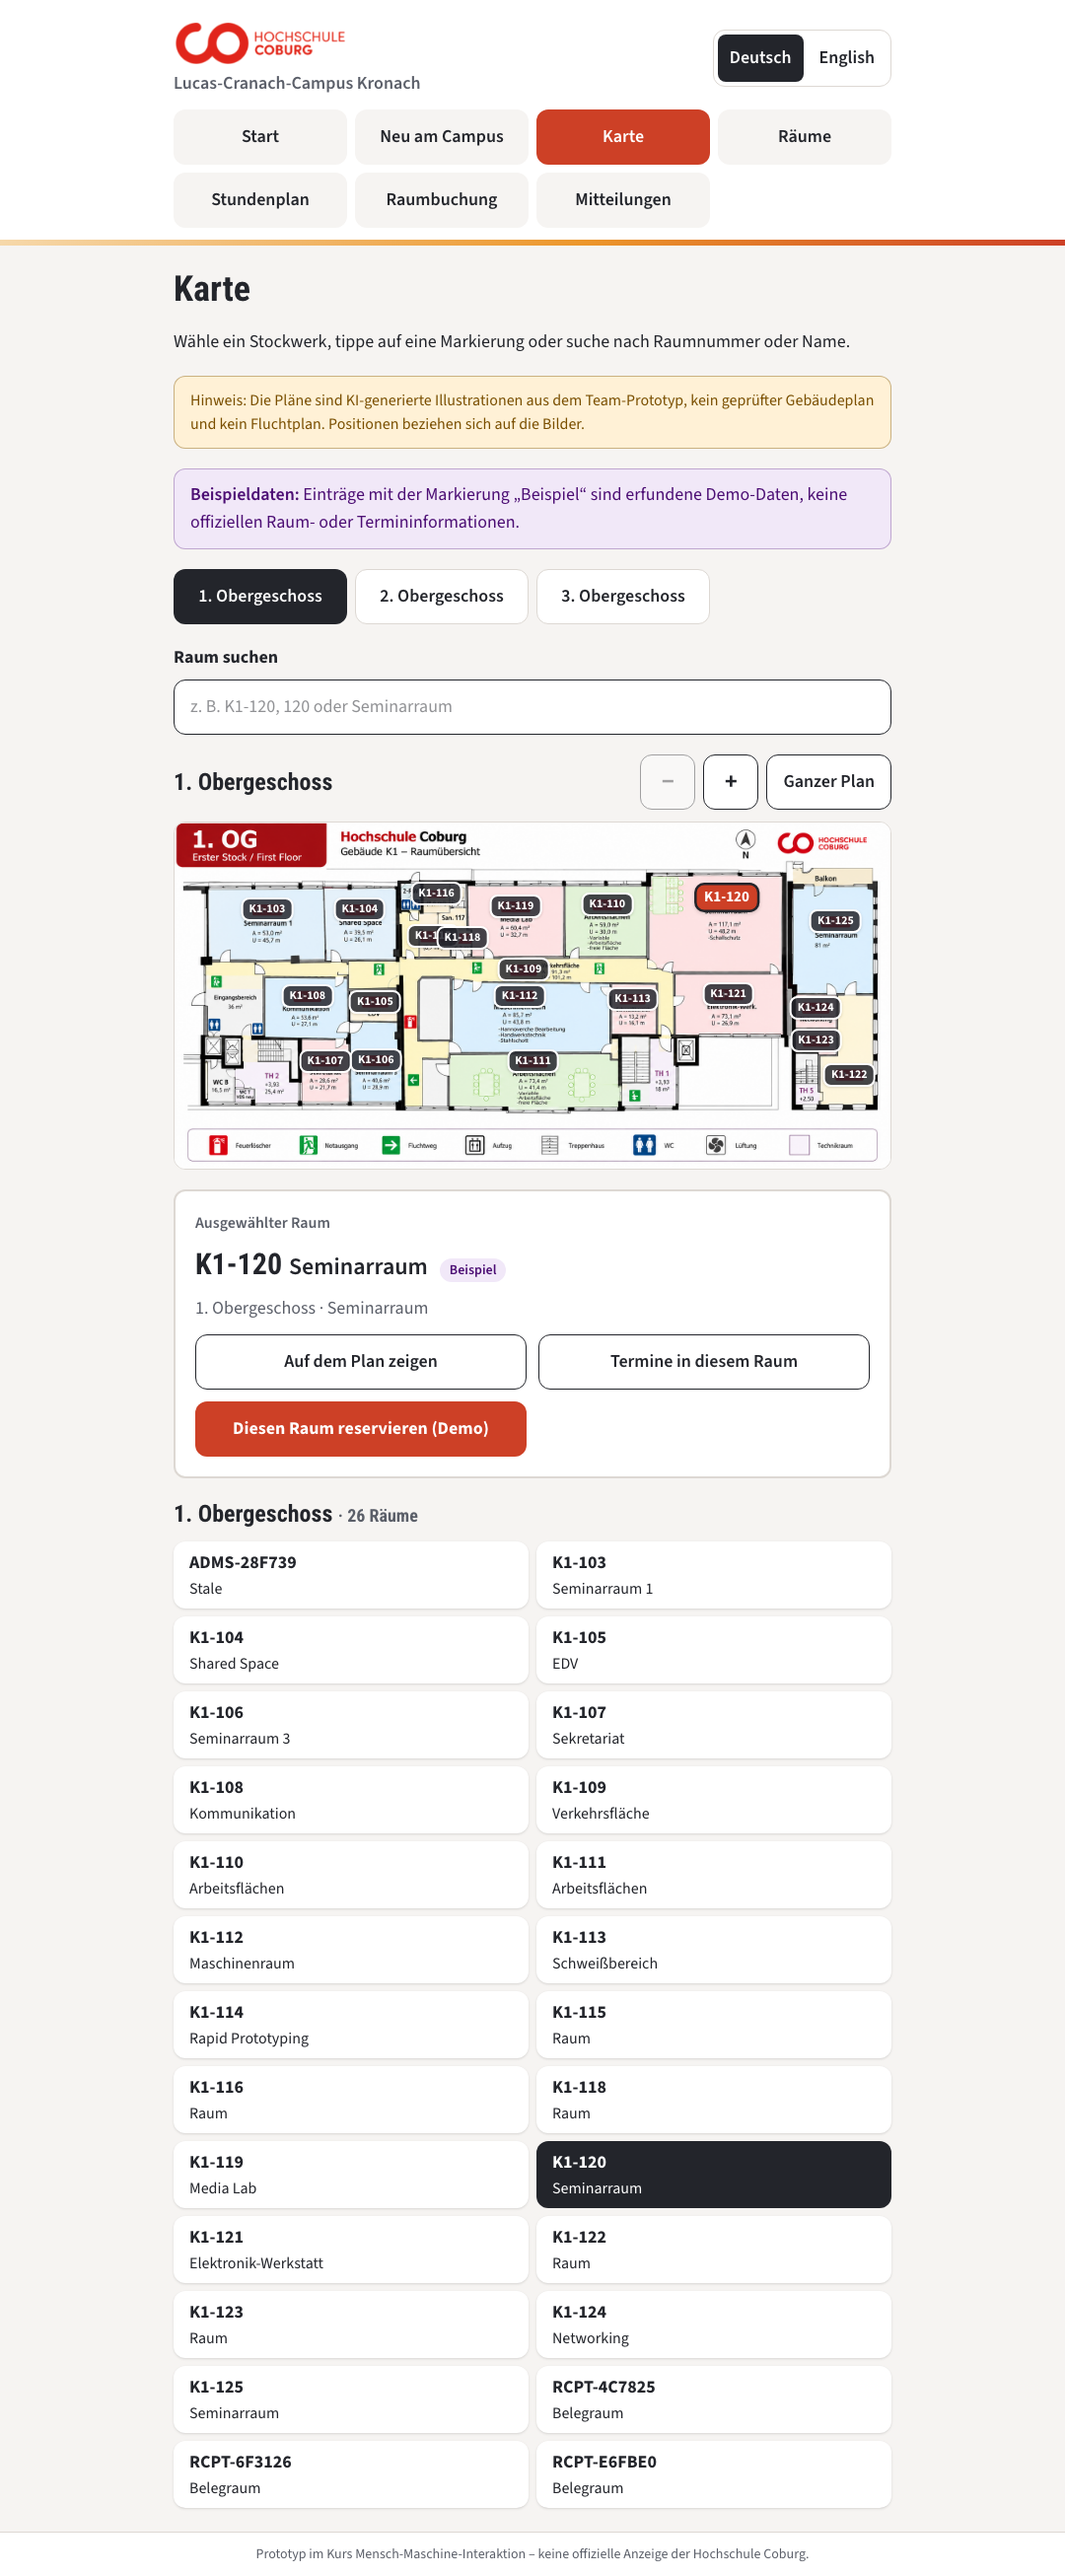
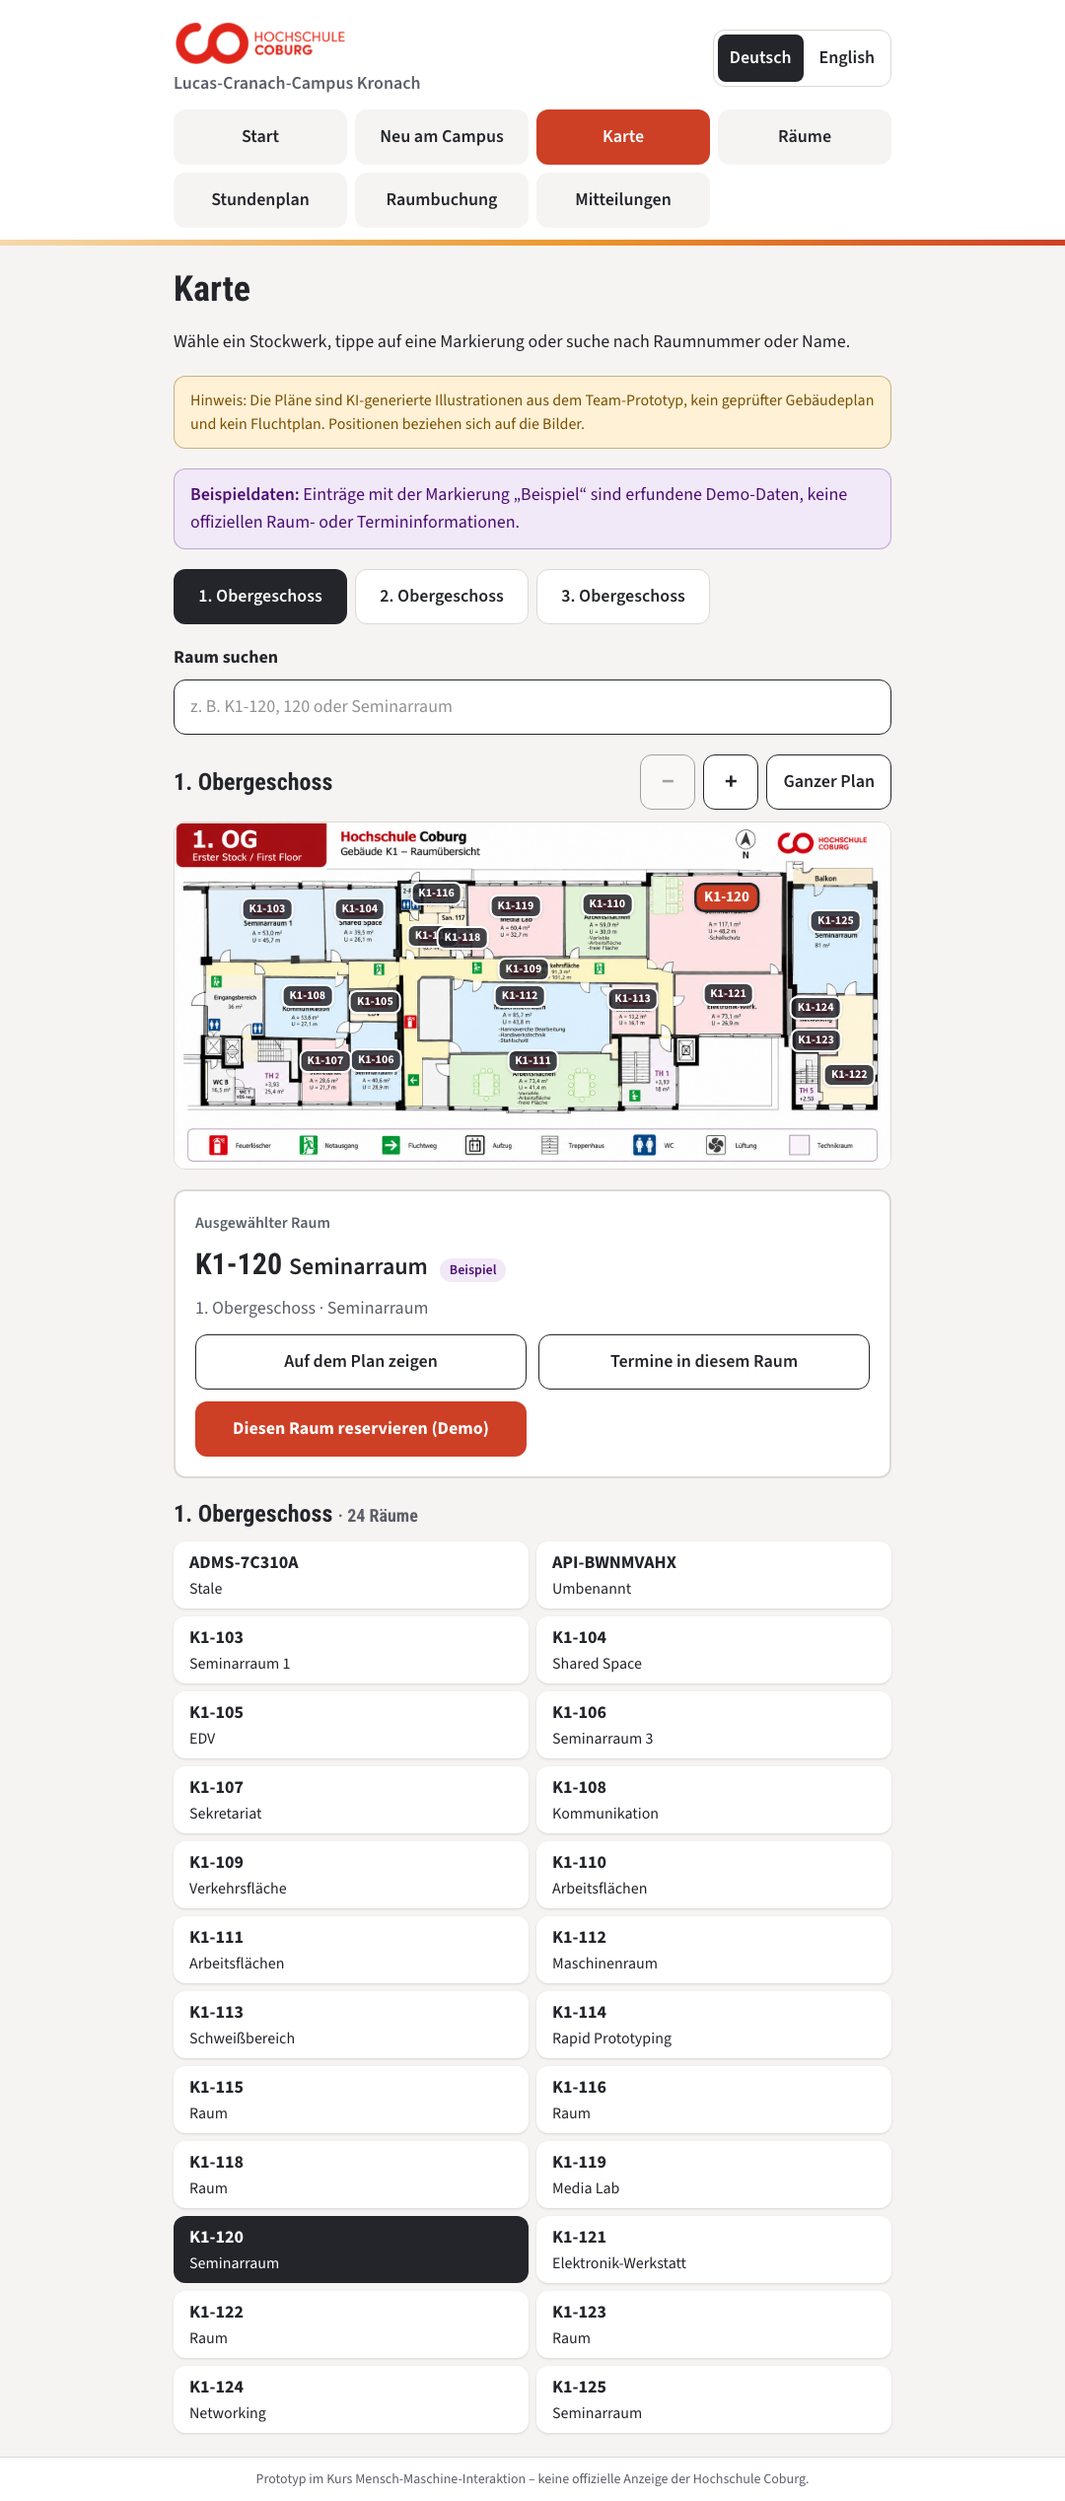
test: contract tests, booking restart persistence, clean lint; T17 acceptance evidence (T06, T16, T17)
By Ali:
- tests/unit/integration-contracts.test.ts: URL context, booking policy
  range, translated error codes, complete DE/EN copy (contract C3-C7).
- scripts/verify-restart.sh: two demo bookings on a relative Berlin date;
  after restart the confirmed/cancelled states, busy spans, rooms and the
  cancellation code still hold. Tokens are never printed.
- public/map-demo/app.js: removed two unused variables reported by the
  audit (lastFocusedPin, i) in Aryan's preserved static script; no
  behaviour change. No lint rule or config was changed.

T17 run (details in docs/evidence/integration-2026-10-31/T17/run-info.txt):
typecheck 0; lint 0 problems; unit 134/134; build 0; E2E 60/60;
concurrency 3/3; restart PASS 13 checks (first attempt failed on a
script ordering bug, fixed).

diff --git a/tests/unit/integration-contracts.test.ts b/tests/unit/integration-contracts.test.ts
@@ -1,0 +1,48 @@
+import { describe, expect, it } from "vitest";
+import { bookingErrorKey, BOOKING_COPY } from "../../src/components/public/booking-copy.ts";
+import { BOOKING_POLICY, bookingDateRange } from "../../src/lib/bookings/policy.ts";
+import { PUBLIC_TEXT, publicHref } from "../../src/lib/i18n/public.ts";
+import { FLOOR_IDS } from "../../src/lib/rooms/schema.ts";
+
+// T06: the meanings fixed in docs/contracts.md (C3–C5, C7) that several
+// modules rely on. Behaviour of the API itself is covered by
+// tests/e2e/booking-api.spec.ts; the occupancy rule by occupancy.test.ts.
+
+describe("C3 public URL context", () => {
+  it("keeps opaque room ids, dates and language; German adds no parameter", () => {
+    expect(publicHref("/map", "en", { raum: "lcc-demo-room-k1-120", datum: "2026-11-03" })).toBe("/map?raum=lcc-demo-room-k1-120&datum=2026-11-03&lang=en");
+    expect(publicHref("/booking", "de", { raum: "demo-room-101" })).toBe("/booking?raum=demo-room-101");
+    expect(publicHref("/map", "en", { raum: null, etage: "3OG" })).toBe("/map?etage=3OG&lang=en");
+  });
+
+  it("knows every floor that has a map image, and keeps the old ids", () => {
+    expect(FLOOR_IDS).toEqual(["EG", "1OG", "2OG", "3OG"]);
+    for (const lang of ["de", "en"] as const) for (const id of FLOOR_IDS) expect(PUBLIC_TEXT[lang].floors[id]).toBeTruthy();
+  });
+});
+
+describe("C4 booking policy", () => {
+  it("offers 14 dates including today in Berlin time", () => {
+    // 23:30 UTC on 2 Nov is already 3 Nov in Berlin.
+    expect(bookingDateRange(new Date("2026-11-02T23:30:00Z"))).toEqual({ first: "2026-11-03", last: "2026-11-16" });
+    expect(BOOKING_POLICY).toMatchObject({ opens: "08:00", closes: "20:00", minuteStep: 15, minMinutes: 15, maxMinutes: 120, daysAhead: 13 });
+  });
+});
+
+describe("C5/C7 public error codes are translated, never echoed", () => {
+  it("maps API error/detail codes to copy keys and unknown ones to a generic message", () => {
+    expect(bookingErrorKey("time_conflict", undefined)).toBe("time_conflict");
+    expect(bookingErrorKey("room_not_reservable", undefined)).toBe("room_not_reservable");
+    expect(bookingErrorKey("validation", "grid")).toBe("grid");
+    expect(bookingErrorKey("validation", "in_past")).toBe("in_past");
+    expect(bookingErrorKey("validation", "invalid_input")).toBe("generic");
+    expect(bookingErrorKey("request_id_reused", undefined)).toBe("generic");
+    expect(bookingErrorKey(undefined, undefined)).toBe("generic");
+  });
+
+  it("has every message in both languages", () => {
+    const keys = (o: object): string[] => Object.entries(o).flatMap(([k, v]) => (v && typeof v === "object" ? keys(v).map((s) => `${k}.${s}`) : [k]));
+    expect(keys(BOOKING_COPY.en).sort()).toEqual(keys(BOOKING_COPY.de).sort());
+    expect(Object.values(BOOKING_COPY.en.errors).join(" ")).not.toMatch(/[äöüß]/);
+  });
+});

diff --git a/public/map-demo/app.js b/public/map-demo/app.js
@@ -21,7 +21,7 @@
     en: {badge:'HCI prototype',eyebrow:'CAMPUS WAYFINDING',title:'Find your room.',intro:'Choose a floor or search an area on the building illustration.',searchLabel:'Search rooms',floors:'Floors',found:'Rooms',loading:'Loading …',sidebarNote:'Illustrative demo · not an official floor plan',mapEyebrow:'INTERACTIVE CAMPUS MAP',mapSubtitle:'Tap a marker or choose an area from the list.',reset:'Fit',mapLegend:'Areas on the illustration',pins:'Markers',scrollHint:'Scroll / zoom to explore',emptyTitle:'Select an area',emptyText:'Its position and details will appear here.',disclaimer:'Note: These images are AI-generated design illustrations, not verified architectural plans. Positions are relative to the images, not real campus coordinates. Live class schedules are not simulated.',searchPlaceholder:'e.g. K1-120, 120, seminar room …',invalidRoomFormat:'Invalid room code. Examples: K1-120, K1 120, 120, or K1-215a. You can also search by room name.',noResults:'No room found. Check the room code (e.g. K1-120).',showOnMap:'Show on map',imageMissing:'Map image could not be loaded. Please check the files in the assets folder.',zoomInLabel:'Zoom in',zoomOutLabel:'Zoom out',clearLabel:'Clear search',languageLabel:'Zu Deutsch wechseln',mapRegionLabel:'Interactive floor map, scrollable',floorSelectLabel:'Choose floor',noLiveSchedule:'Live room schedule not connected',floor:'Floor',area:'Area',designSpot:'Position in illustration',notOfficial:'Not an official room designation',floorName:['First floor','Second floor','Third floor'],groupLabel:'Rooms on plan',location:'Marker',details:'Selected area'}
   };
   const sharedParams = new URLSearchParams(window.location.search);
-  let lang = sharedParams.get('lang') === 'en' ? 'en' : 'de', floor = '1OG', zoom=1, selectedId=null, queryText='', lastFocusedPin=null;
+  let lang = sharedParams.get('lang') === 'en' ? 'en' : 'de', floor = '1OG', zoom=1, selectedId=null, queryText='';
   let validationTimer = null;
   const FEEDBACK_DELAY_MS = 480;
 
@@ -116,7 +116,7 @@
     };
     if(dom.image.src!==metadata.image && dom.image.getAttribute('src')!==metadata.image) dom.image.src=metadata.image;
     dom.markers.innerHTML='';
-    currentFloorPlaces().filter(item=>Number.isFinite(item.x) && Number.isFinite(item.y)).forEach((item,i)=>{
+    currentFloorPlaces().filter(item=>Number.isFinite(item.x) && Number.isFinite(item.y)).forEach((item)=>{
       const button=document.createElement('button');button.type='button';button.className='map-pin room-code-pin'+(selectedId===item.id?' selected':'');
       button.style.left=`${(item.x*100).toFixed(3)}%`;button.style.top=`${(item.y*100).toFixed(3)}%`;
       button.title=`${item.code} · ${roomName(item)}`;button.setAttribute('aria-label',`${item.code}, ${roomName(item)}, ${labelFloor(item.floor)}`);

diff --git a/tests/unit/team-demo.test.ts b/tests/unit/team-demo.test.ts
@@ -5,7 +5,6 @@ import { join, resolve } from "node:path";
 import { afterEach, beforeEach, describe, expect, it } from "vitest";
 import { openDatabase, type Db } from "../../src/lib/db/database.ts";
 import { markerFor } from "../../src/lib/map/config.ts";
-import { TEAM_DEMO_ROOMS } from "../../src/lib/map/team-catalog.ts";
 import { seedTeamDemo } from "../../src/lib/map/team-seed.ts";
 import { createRoomRepository } from "../../src/lib/rooms/repository.ts";
 
